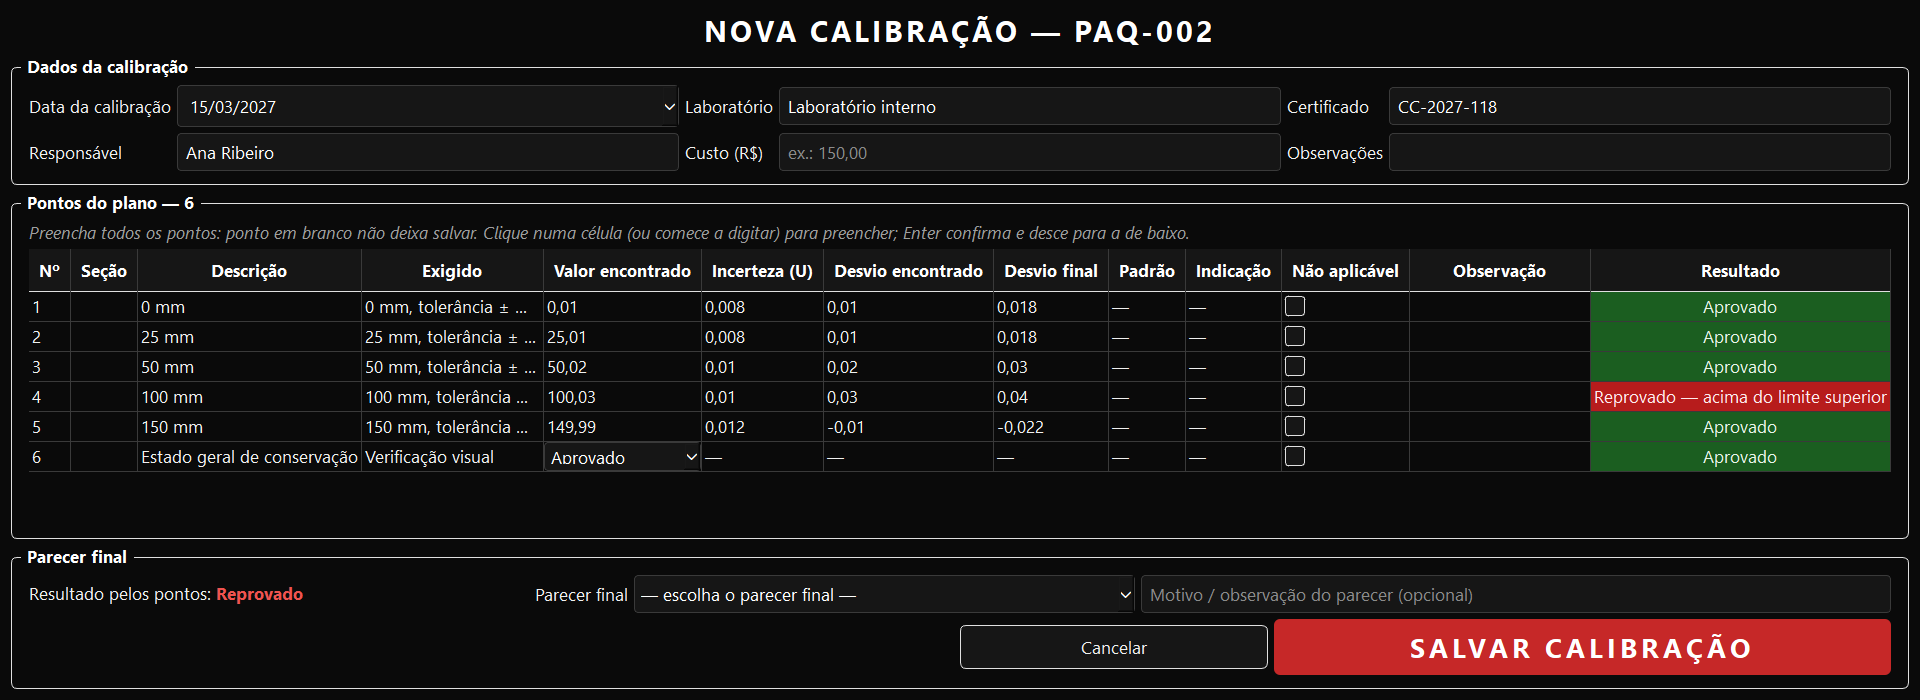
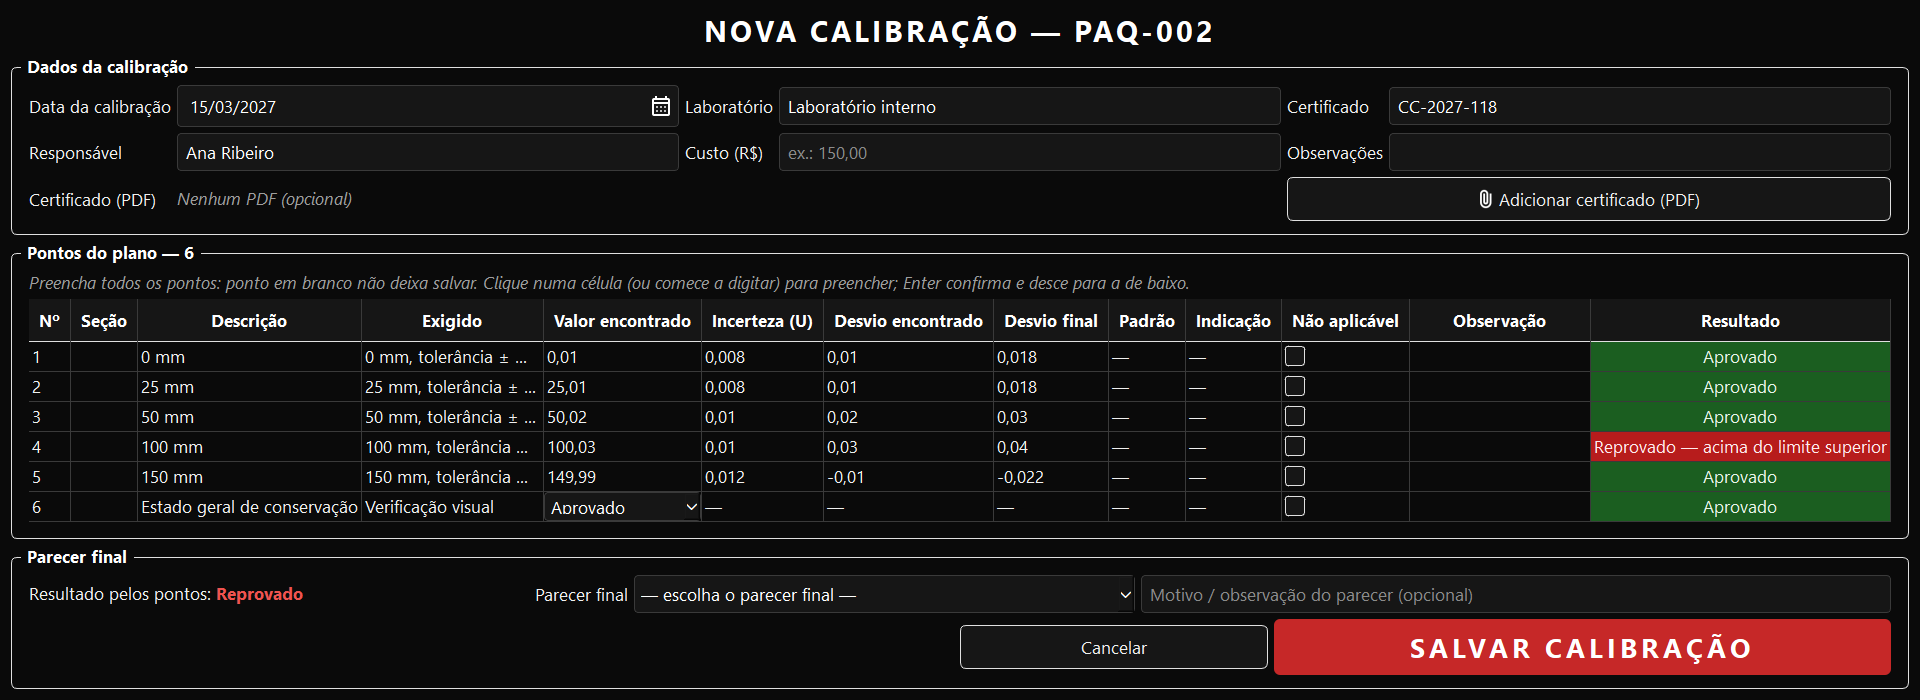
README: novidades da 1.2.0 (certificados em PDF, modo claro/escuro, indicadores, relatórios) e fotos atualizadas

diff --git a/README.md b/README.md
@@ -18,16 +18,17 @@
 <p align="center">
   <img src="https://img.shields.io/badge/área-gestão_da_qualidade-blue?style=flat-square" alt="Área"/>
   <img src="https://img.shields.io/badge/tipo-aplicação_desktop-orange?style=flat-square" alt="Tipo"/>
-  <img src="https://img.shields.io/badge/testes-pytest_(325)-brightgreen?style=flat-square" alt="Testes"/>
+  <img src="https://img.shields.io/badge/testes-pytest_(410)-brightgreen?style=flat-square" alt="Testes"/>
   <img src="https://img.shields.io/badge/idioma-pt--BR-green?style=flat-square" alt="Idioma"/>
-  <img src="https://img.shields.io/badge/versão-1.1.0_em_uso-success?style=flat-square" alt="Versão"/>
+  <img src="https://img.shields.io/badge/versão-1.2.0_em_uso-success?style=flat-square" alt="Versão"/>
   <img src="https://img.shields.io/badge/protótipo-Streamlit-FF4B4B?style=flat-square&logo=streamlit&logoColor=white" alt="Protótipo"/>
 </p>
 
 <p align="center">
   Aplicativo desktop que substituiu uma planilha de cronograma de calibração por um sistema completo:
   cadastro de instrumentos e planos, registro das calibrações com avaliação automática pela incerteza
-  de medição, cronograma mensal, gráfico de tendência e uso simultâneo numa pasta de rede.
+  de medição, cronograma mensal, gráfico de tendência, certificados em PDF, painel de indicadores,
+  relatórios mensais automáticos, modo claro e escuro e uso simultâneo numa pasta de rede.
 </p>
 
 <p align="center">
@@ -64,6 +65,8 @@ administrativos e melhoria contínua em um cenário relacionado à **gestão da 
 | Vencimentos difíceis de enxergar. | **Cronograma por mês**, painéis no topo, projeção dos meses futuros e custo estimado. | Vencidas e pendentes do mês visíveis ao abrir o programa. |
 | Planilha aberta por várias pessoas ao mesmo tempo, sem servidor. | **Trava de edição** em pasta de rede: um edita, os outros consultam e podem pedir a vez. | Uso seguro por mais de um computador, sem servidor nem TI. |
 | Programa antigo (protótipo Streamlit) abria servidor local e navegador; pelo `.exe` levava 10–15 s. | `.exe` leve na rede que copia o programa para o PC uma vez por versão. | Abre em **~2 s** pela rede; atualizar = trocar uma pasta. |
+| Certificados guardados em **pasta física de papel**. | **PDF do certificado** anexado a cada calibração e aba **Certificados**. | Certificado aberto com **um clique**, conferido contra alteração (SHA-256). |
+| Nenhuma visão de **custos e prazos**; relatório montado à mão. | **Painel de indicadores** montado pelo próprio usuário + **relatório do mês em PDF**, guardado sozinho. | Custo, prazo e instrumentos **mais perto do limite** numa tela; relatório pronto no 1º dia do mês. |
 
 ```mermaid
 mindmap
@@ -97,6 +100,16 @@ mindmap
       Exclusão lógica
       Restauração segura
       Exclusão permanente protegida
+    Certificados
+      PDF por calibração
+      Conferência contra alteração
+    Indicadores e relatórios
+      Painel montado pelo usuário
+      Relatório do mês e do ano em PDF
+      Guardado sozinho
+    Aparência
+      Modo claro e escuro
+      Ícones Material Symbols
 ```
 
 ### 🎯 Objetivos
@@ -115,10 +128,10 @@ mindmap
 
 | | Número | O que significa |
 |---|---|---|
-| 🧪 | **325 testes automáticos** | Regras, banco, importador e telas testados com dados fictícios (pytest; telas em modo *offscreen*). |
-| 🐍 | **~7.300 linhas** de código + **~3.700** de testes | Programa final escrito do zero, em camadas. |
-| 🔀 | **16 pull requests** em **6 fases** | Cada fase numa branch própria, revisada e aprovada antes de juntar. |
-| 🏷 | **2 versões entregues** (`v1.0.0`, `v1.1.0`) | Versionamento semântico, versão visível na tela. |
+| 🧪 | **410 testes automáticos** | Regras, banco, importador e telas testados com dados fictícios (pytest; telas em modo *offscreen*). |
+| 🐍 | **~11.000 linhas** de código + **~5.100** de testes | Programa final escrito do zero, em camadas. |
+| 🔀 | **20 pull requests** em **6 fases** + 2 versões de melhorias | Cada fase numa branch própria, revisada e aprovada antes de juntar. |
+| 🏷 | **3 versões entregues** (`v1.0.0`, `v1.1.0`, `v1.2.0`) | Versionamento semântico, versão visível na tela. |
 | 📝 | **3 decisões de arquitetura** (ADRs) | Troca para PySide6, trava de edição em rede, lugar oficial do banco. |
 | 🗄 | **9 versões da estrutura do banco** | Atualização automática do banco antigo, sem perder dados. |
 | ⚡ | **~2 s** para abrir pela rede | Antes, 10–15 s. |
@@ -157,6 +170,13 @@ mindmap
       <img src="docs/telas/05_pedido_de_edicao.png" alt="Trava de edição entre computadores"/>
       <br/><em>Uso em rede: quem abre primeiro edita; outro computador entra em modo consulta e
       pode pedir a edição.</em>
+    </td>
+  </tr>
+  <tr>
+    <td colspan="2" align="center">
+      <img src="docs/telas/06_indicadores_modo_claro.png" alt="Painel de indicadores no modo claro"/>
+      <br/><em>Versão 1.2.0: painel de indicadores montado pelo usuário (custo, prazo, laboratórios,
+      instrumentos mais perto do limite), aqui no modo claro — cada pessoa escolhe claro ou escuro.</em>
     </td>
   </tr>
 </table>
@@ -199,6 +219,37 @@ mindmap
 
 </td>
   </tr>
+  <tr>
+    <td valign="top" width="33%">
+
+**📄 Certificados**
+
+- **PDF do certificado** anexado na calibração (opcional, um por calibração, trocável).
+- Aba **Certificados**: código, nº do certificado e data; abre com um clique.
+- PDF **conferido contra alteração**: se alguém mexer no arquivo, aparece aviso.
+
+</td>
+    <td valign="top" width="33%">
+
+**📊 Indicadores e relatórios**
+
+- **Painel montado pelo usuário**, como num BI: escolhe o que ver, como separar e o tipo de gráfico.
+- Custo do mês, 12 meses e médio, **% no prazo**, custo por laboratório, **mais perto do limite**.
+- **Relatório do mês em PDF** (números, gráficos, calibrações e ALTERAÇÕES), guardado sozinho.
+- **Relatório do ano** com os números e os gráficos do painel.
+
+</td>
+    <td valign="top" width="33%">
+
+**🎨 Cadastro e aparência**
+
+- **Modo claro e escuro**, escolhido por cada pessoa, trocado na hora.
+- Tipo e localização **com sugestões** (sem ligar para maiúsculas e acentos): nada de nome repetido.
+- Código com **próximo número** da sigla (PAQ-018 → PAQ-019).
+- Ícones **Material Symbols** e calendário em todos os campos de data.
+
+</td>
+  </tr>
 </table>
 
 Na tela principal, quatro indicadores dão a visão do mês — clicar em um deles abre a lista dos
@@ -216,6 +267,9 @@ instrumentos daquele grupo —, seguidos das abas de trabalho:
 | 🔧 **Instrumentos** | Lista com filtros e busca, ficha do instrumento (só para ver; **EDITAR** abre a edição), plano de calibração (**VER PLANO** / **EDITAR PLANO**) e histórico de condição. |
 | 📏 **Calibrar** | A mesma lista, o botão **NOVA CALIBRAÇÃO** e as calibrações feitas; cada uma abre para ver, com **EDITAR**, gráfico de tendência e envio para a Lixeira. |
 | 📅 **Cronograma** | Situação de cada instrumento hoje ou em qualquer mês, parecer da última calibração, custo e motivo do atraso. |
+| 📄 **Certificados** | PDFs dos certificados das calibrações feitas no programa, com pesquisa e botão **Abrir certificado**. |
+| 📊 **Indicadores** | Números do mês e dos 12 meses + gráficos do painel; **ADICIONAR GRÁFICO** abre o montador com prévia; desfazer as últimas mudanças. |
+| 📑 **Relatórios** | Relatório do mês atual (muda a cada calibração), relatório do ano e a lista dos relatórios finais guardados. |
 | 🧺 **Lixeira** | Busca, restauração e exclusão permanente protegida do que foi registrado por engano. |
 
 ### 🧺 Lixeira
@@ -325,7 +379,9 @@ flowchart LR
 | Python | Implementação das regras, do banco e da interface. |
 | PySide6 | Interface desktop nativa, sem servidor nem navegador; tema escuro padronizado. |
 | SQLite | Banco preparado para pasta de rede (journal tradicional, espera automática, backup diário). |
-| Matplotlib | Gráfico de tendência embutido na janela, exportável em PNG. |
+| Matplotlib | Gráfico de tendência embutido na janela (exportável em PNG) e gráficos do painel de indicadores, na janela e nos relatórios. |
+| QPdfWriter (Qt) | Relatórios mensais e anuais em PDF, em folha A4, sem programa extra. |
+| Material Symbols | Ícones do Google (licença Apache 2.0), repintados na cor do tema claro ou escuro. |
 | openpyxl | Leitura da planilha de cronograma original, incluindo o formato de exibição das células. |
 | PyInstaller | Empacotamento em `.exe` (lançador leve + programa em pasta). |
 | pytest + ruff | Testes automáticos com dados fictícios e padronização do código. |
@@ -334,7 +390,8 @@ flowchart LR
 
 ## 💾 Modelo de dados
 
-Principais tabelas do programa final (estrutura na versão 9, atualizada sozinha a cada versão):
+Principais tabelas do programa final (estrutura na versão 9, atualizada sozinha a cada versão; as
+tabelas da 1.2.0 entraram sem mudar a versão, para a versão anterior ainda abrir o banco):
 
 ```mermaid
 erDiagram
@@ -346,6 +403,7 @@ erDiagram
     calibracoes ||--o{ pontos_calibracao : "registra (com foto do plano)"
     calibracoes ||--o{ correcoes_calibracao : "auditoria"
     pontos_plano |o--o{ pontos_calibracao : "origina"
+    calibracoes ||--o| certificados : "PDF do certificado"
 
     instrumentos {
         int id PK
@@ -423,6 +481,26 @@ erDiagram
         text ultimo_sinal
         text pedido_usuario
     }
+    certificados {
+        int id PK
+        int calibracao_id FK
+        text arquivo
+        text sha256
+        text enviado_por
+        text excluido_em
+    }
+    graficos_painel {
+        int id PK
+        text definicao
+        text excluido_em
+    }
+    relatorios {
+        int id PK
+        text periodo
+        text arquivo
+        text sha256
+        text gerado_em
+    }
 ```
 
 > [!TIP]
@@ -454,6 +532,8 @@ erDiagram
   cronograma de qualquer mês com custo estimado, motivo do atraso, proteção contra cópia)
 - [x] Fase 6 — Programa para a rede, teste de uso real e versão `1.0.0` em uso na empresa (novembro de 2026)
 - [x] Versão `1.1.0` — ajustes do primeiro uso real (teclado, colunas de desvio, gráfico, calendário)
+- [x] Versão `1.2.0` — certificados em PDF, modo claro e escuro, painel de indicadores, relatórios
+  mensais e anuais, cadastro sem nomes repetidos
 
 ## 🔄 Do protótipo ao programa final
 
@@ -648,6 +728,32 @@ flowchart LR
     D --> F{"± U (0,1)"}
     F -->|"−0,3 (mais perto de −0,5)"| R["Desvio final −0,3<br/>dentro de ± 0,5 → ✅"]
     F -.->|"−0,1 (mais longe)"| X["descartado"]
+```
+</details>
+
+<details>
+<summary><b>📊 Versão 1.2.0 — certificados, indicadores, relatórios e modo claro</b></summary>
+
+**Versão `1.2.0` — a maior desde a entrega.** Com o programa em uso, vieram as novidades pedidas
+pelo dia a dia da Qualidade, cada uma aprovada por foto e testada numa cópia do banco real antes de
+ir para a rede:
+
+| Novidade | O que faz |
+|---|---|
+| **Certificados em PDF** | Na nova calibração (ou no EDITAR) escolhe-se o PDF do certificado; ele é copiado para a pasta do programa e conferido por SHA-256. Trocar manda o anterior para a Lixeira. Aba **Certificados** com pesquisa e botão **Abrir certificado**; PDF mexido depois abre com aviso amarelo. |
+| **Modo claro e escuro** | Botão sol/lua no canto: cada pessoa escolhe, a troca é na hora e fica guardada por usuário do Windows. No claro, o logo ganha letra preta. |
+| **Painel de indicadores** | Montado pelo próprio usuário, sem IA: **ADICIONAR GRÁFICO** abre um montador com listas (o que ver, separado por, só os que…, cores, período, tipo de gráfico) e prévia na hora; o montador só oferece o que faz sentido e não deixa adicionar gráfico vazio. Um painel só para todos, guardado no banco; desfazer as 3 últimas mudanças. |
+| **Relatórios em PDF** | Relatório do mês atual (muda a cada calibração) e, no primeiro dia do mês novo, o **relatório final** do mês anterior é criado e guardado **sozinho**, conferido por SHA-256. Mês: números, gráficos do painel, calibrações e ALTERAÇÕES. Ano: números e gráficos. |
+| **Cadastro sem nomes repetidos** | Tipo e localização com sugestões enquanto se digita, sem ligar para maiúsculas e acentos; nome novo pede confirmação; nomes parecidos já existentes no banco foram juntados uma vez, ao abrir. |
+| **Código com sigla** | Lista "Tipo (SIGLA)" no campo do código e o **próximo número** já preenchido; código repetido em vermelho na hora. |
+| **Detalhes** | Título com o código do documento (DQ-05), ícones Material Symbols, calendário em toda data, dinheiro com centavos, linha inteira da lista clicável, botão para renomear plano. |
+
+```mermaid
+flowchart LR
+    C["📏 Calibração<br/>registrada"] --> P["📊 Painel de indicadores"]
+    C --> R["📑 Relatório do mês<br/>(muda sozinho)"]
+    P --> R
+    R -->|"1º dia do mês novo"| F["🔒 Relatório final<br/>guardado + SHA-256"]
 ```
 </details>
 
@@ -972,12 +1078,12 @@ conferem:
 ```text
 SistemaCalibracao/
 ├── src/calibracao/             # 🟢 programa final (PySide6)
-│   ├── interface/              #    janela, abas, componentes, gráfico de tendência, tema
-│   ├── regras/                 #    avaliação, cronograma, condição, lixeira, trava, localização
-│   ├── dados/                  #    repositório, estrutura do banco, backup, lugar oficial
+│   ├── interface/              #    janela, abas, componentes, gráficos, relatórios em PDF, temas, ícones
+│   ├── regras/                 #    avaliação, cronograma, condição, lixeira, trava, indicadores, relatório
+│   ├── dados/                  #    repositório, estrutura do banco, backup, lugar oficial, certificados
 │   ├── importacao/             #    leitura e interpretação da planilha original
 │   └── lancador.py             #    .exe leve que abre o programa pela rede
-├── tests/                      # 325 testes automáticos (pytest, dados fictícios)
+├── tests/                      # 410 testes automáticos (pytest, dados fictícios)
 ├── empacotamento/              # geração do .exe e montagem do pacote de entrega
 ├── docs/
 │   ├── decisoes/               # ADRs: decisões de arquitetura
@@ -1012,6 +1118,8 @@ SistemaCalibracao/
 | 🖥 | Construção de interfaces com Streamlit (protótipo) e desktop com PySide6 (programa final). |
 | 🌐 | Uso simultâneo em pasta de rede sem servidor: trava de edição e banco preparado para rede. |
 | 📈 | Visualização de dados técnicos (gráfico de tendência com incerteza e tolerância). |
+| 📊 | Painel de indicadores configurável pelo usuário e relatórios automáticos em PDF. |
+| 🎨 | Interface com tema claro e escuro trocado na hora e ícones padronizados. |
 | 🗃 | Modelagem e persistência de dados relacionais, com migração automática da estrutura. |
 | 📐 | Metrologia aplicada: avaliação de conformidade considerando a incerteza de medição. |
 | 🧪 | Testes automatizados e arquitetura em camadas, com regras independentes da tela. |
